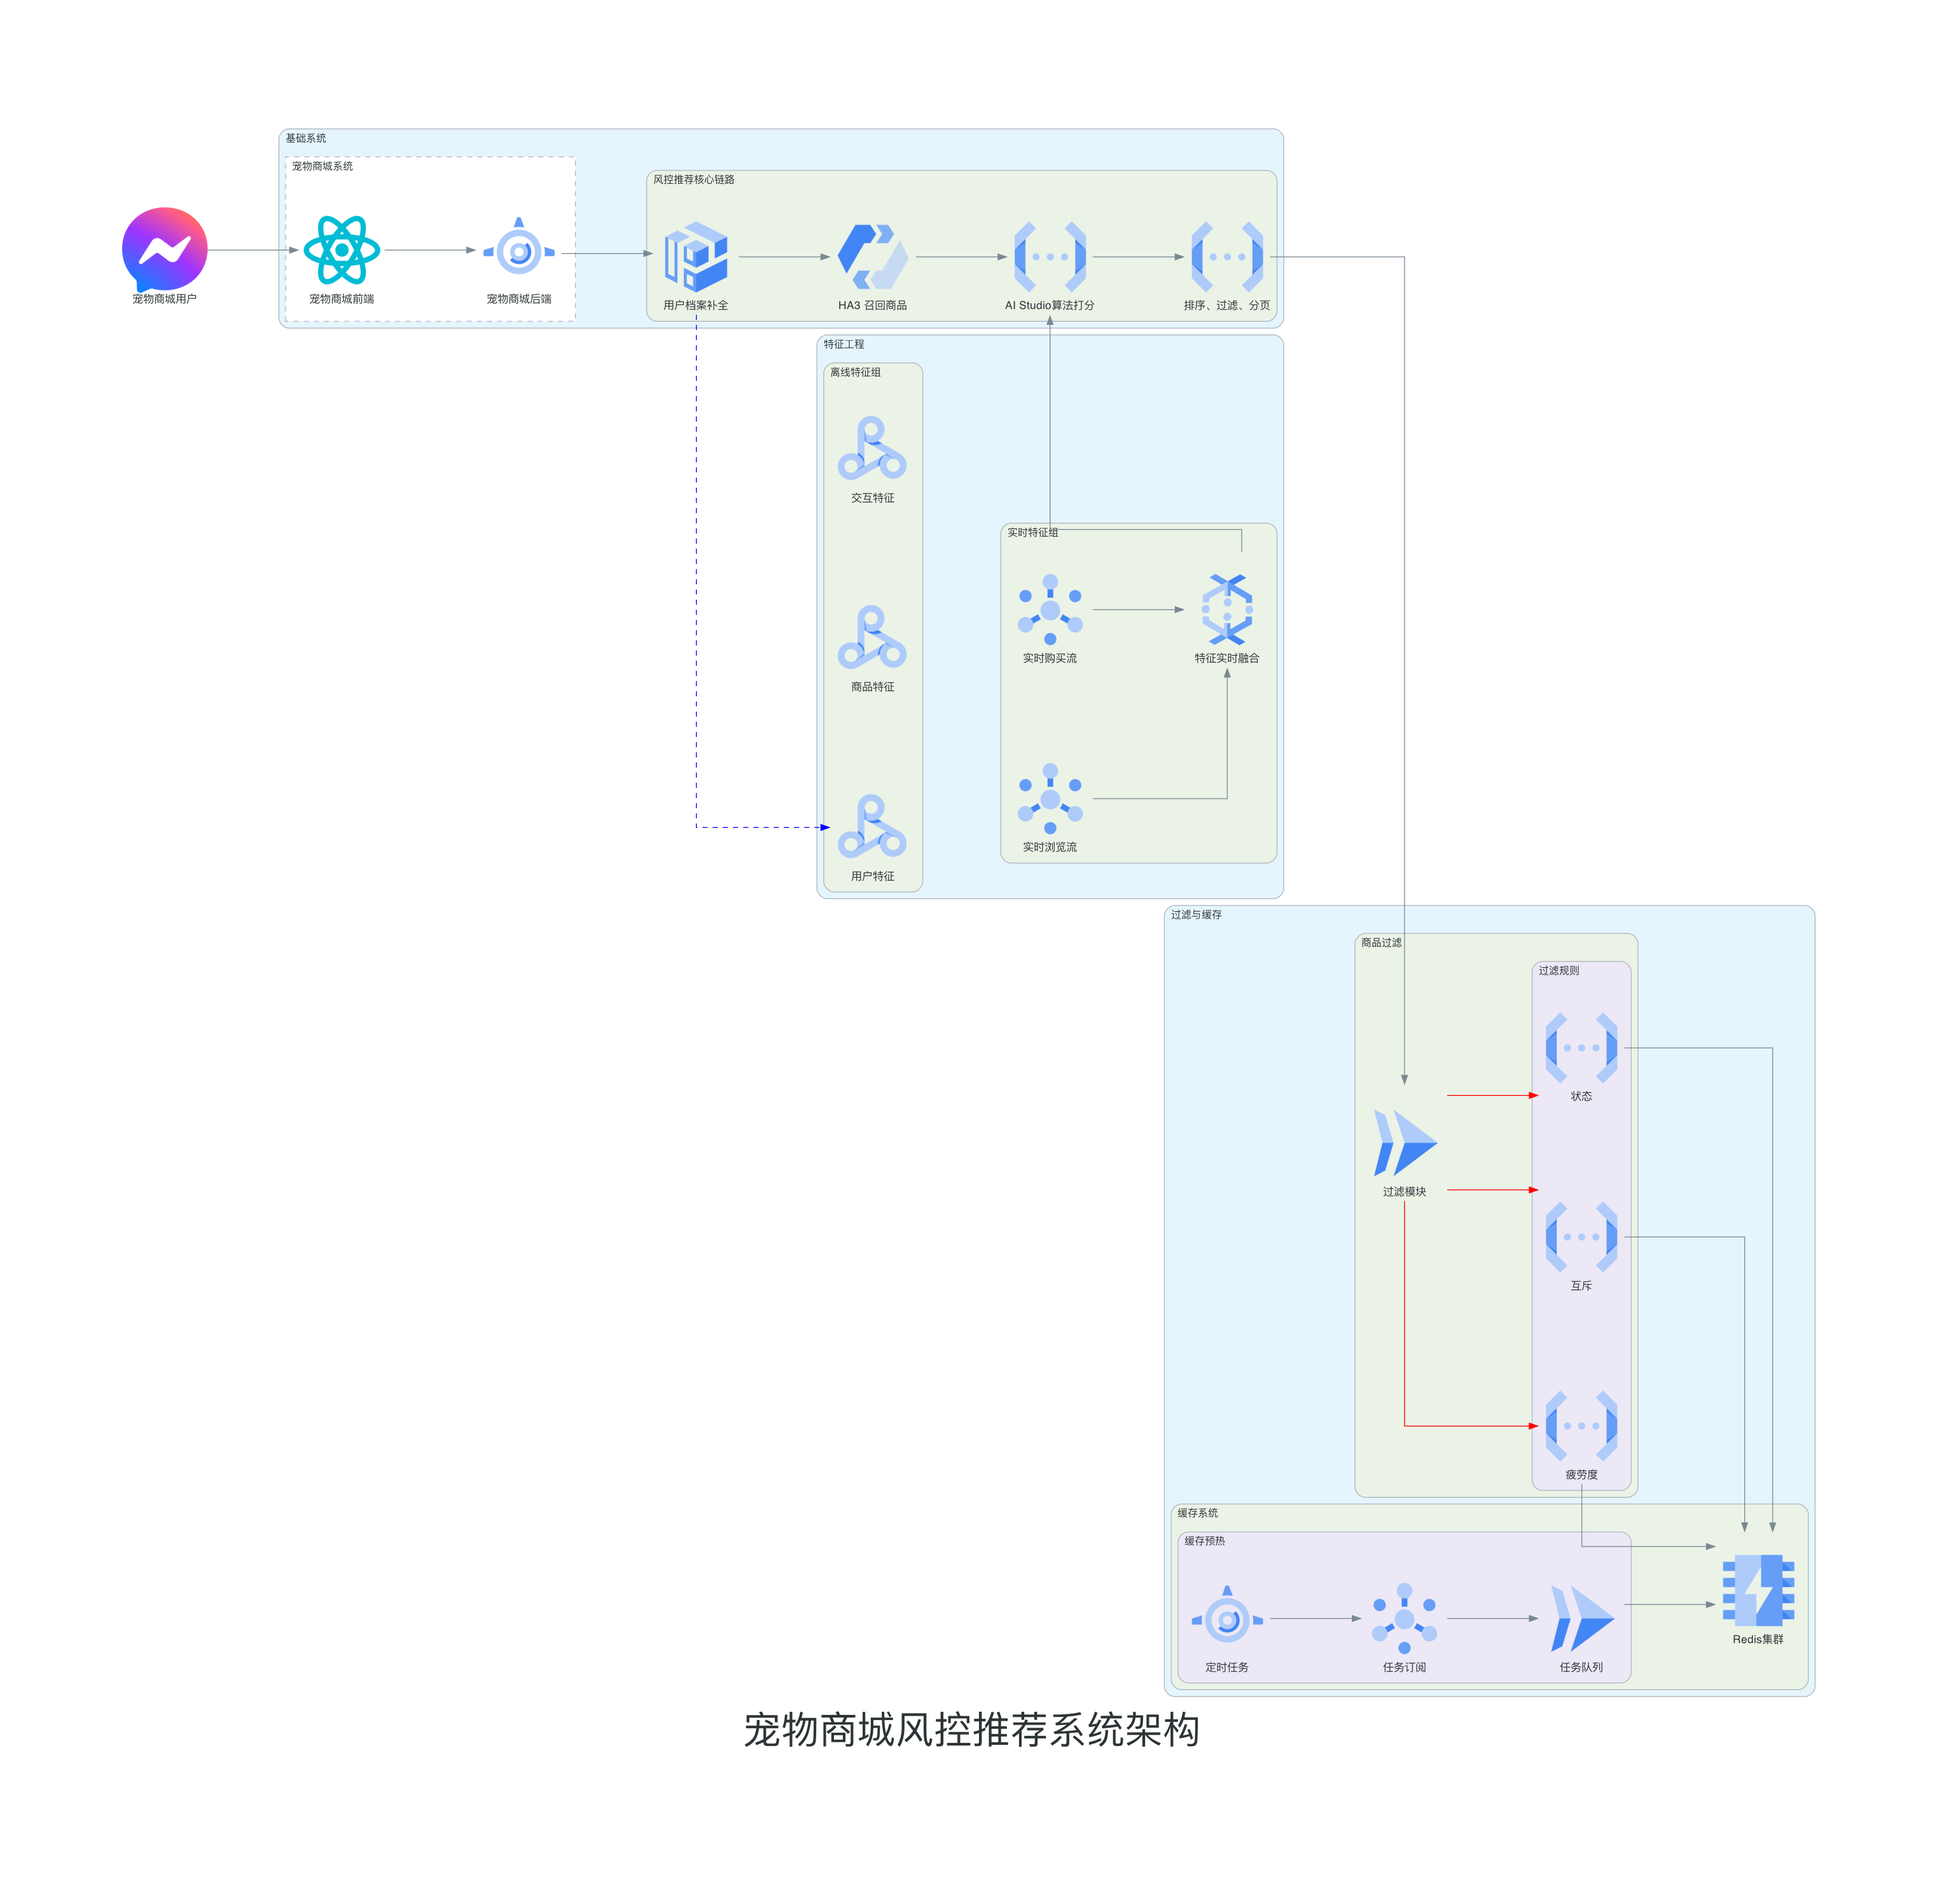
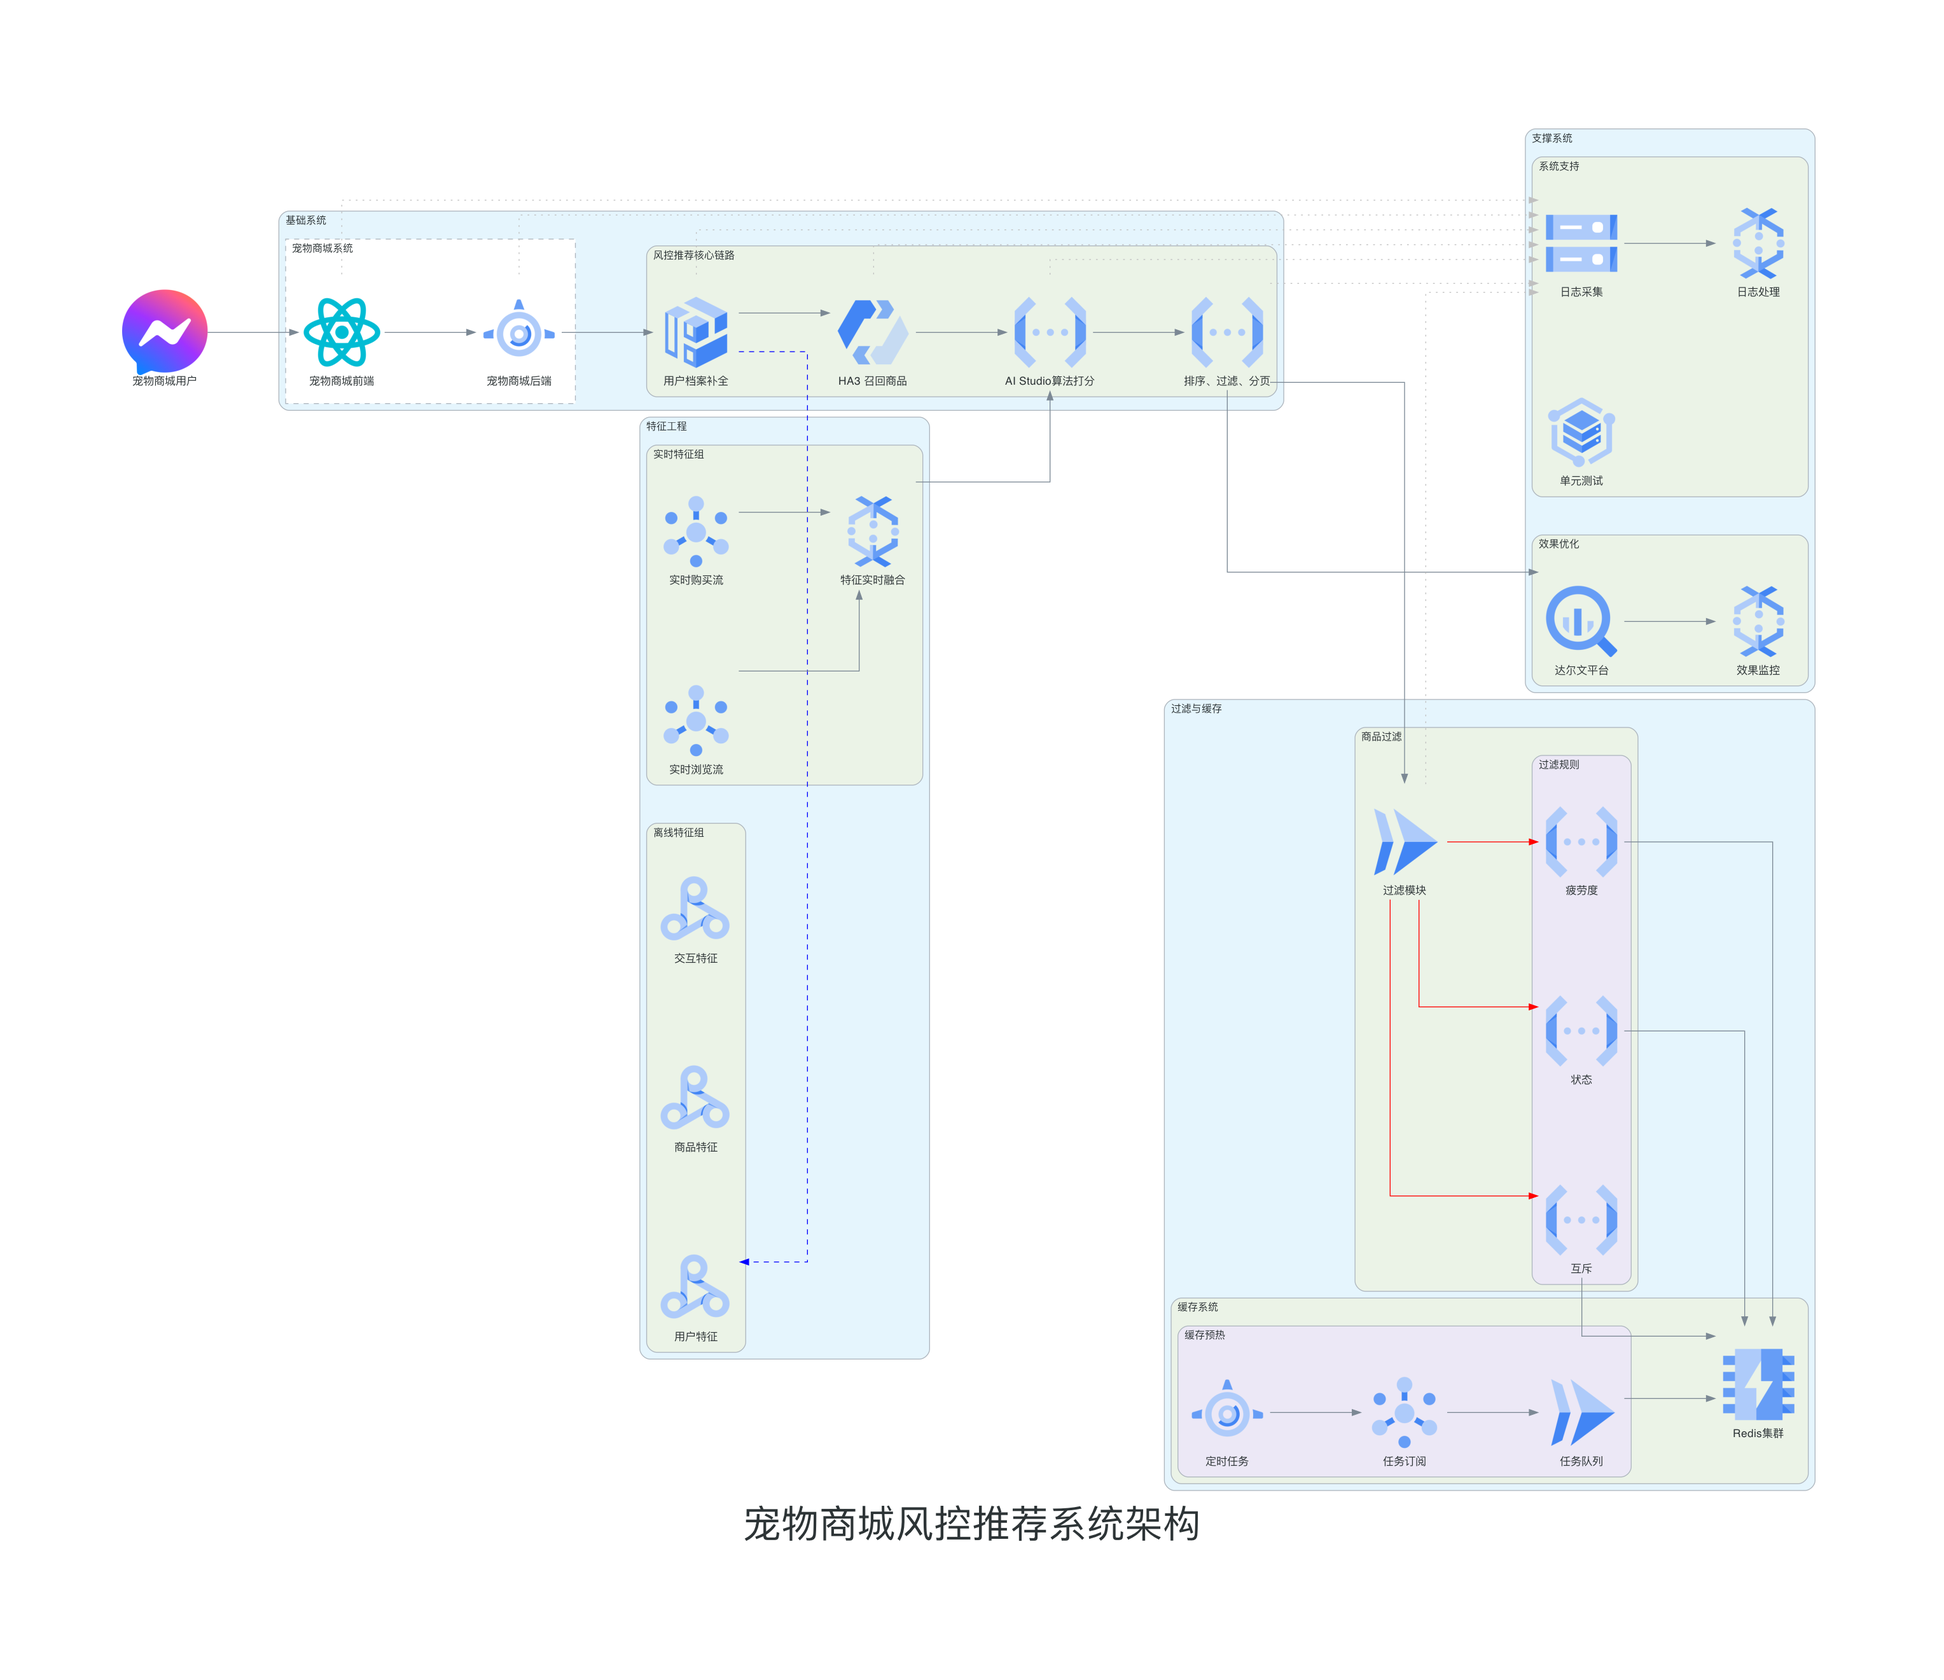
Add: pet recommendation

diff --git a/docs/Vnote/program/recommend/pet_mall_architecture.py b/docs/Vnote/program/recommend/pet_mall_architecture.py
@@ -15,7 +15,10 @@ graph_attr = {
     "splines": "ortho",
     "nodesep": "1.2",
     "ranksep": "1.5",
-    "concentrate": "true"
+    "concentrate": "true",
+    "compound": "true",     # 允许边连接到子图
+    "clusterrank": "local", # 允许子图独立排序
+    "constraint": "false"   # 减少边的约束
 }
 
 core_graph_attr = {
@@ -36,11 +39,14 @@ with Diagram("宠物商城风控推荐系统架构", direction="LR", graph_attr=
             backend = AppEngine("宠物商城后端")
 
         # 风控推荐核心链路，与商城系统并排
-        with Cluster("风控推荐核心链路",graph_attr=core_graph_attr):
+        with Cluster("风控推荐核心链路", graph_attr=core_graph_attr):
             profile = AIHub("用户档案补全")
             recall = AutoML("HA3 召回商品")
             scoring = Functions("AI Studio算法打分")
             ranking = Functions("排序、过滤、分页")
+
+            # 强制水平布局
+            profile >> recall >> scoring >> ranking
 
     # 支撑系统组
     with Cluster("支撑系统"):
@@ -56,7 +62,7 @@ with Diagram("宠物商城风控推荐系统架构", direction="LR", graph_attr=
             log_process = Dataflow("日志处理")
 
     # 特征构建系统 - 使用水平布局
-    with Cluster("特征工程", graph_attr={"rankdir": "LR"}) as feature_eng:
+    with Cluster("特征工程", graph_attr={"rankdir": "LR", "rank": "same", "constraint": "false"}) as feature_eng:
         # 离线特征组
         with Cluster("离线特征组") as offline:
             user_features = Dataproc("用户特征")
@@ -70,12 +76,12 @@ with Diagram("宠物商城风控推荐系统架构", direction="LR", graph_attr=
             feature_fusion = Dataflow("特征实时融合")
 
         # 使用不可见边缘连接节点，强制水平布局
-        user_features >> Edge(style="invis") >> view_stream
-        item_features >> Edge(style="invis") >> purchase_stream
-        ui_features >> Edge(style="invis") >> feature_fusion
+        user_features >> Edge(style="invis", constraint="false") >> view_stream
+        item_features >> Edge(style="invis", constraint="false") >> purchase_stream
+        ui_features >> Edge(style="invis", constraint="false") >> feature_fusion
 
     # 过滤和缓存系统
-    with Cluster("过滤与缓存"):
+    with Cluster("过滤与缓存", graph_attr={"rank": "same", "constraint": "false"}):
         # # 商品过滤
         with Cluster("商品过滤"):
             filter_engine = Run("过滤模块")
@@ -115,3 +121,6 @@ with Diagram("宠物商城风控推荐系统架构", direction="LR", graph_attr=
         component >> Edge(style="dotted", color="gray") >> log_collect
 
     log_collect >> log_process
+
+    # 添加一个不可见的边来连接特征工程和过滤缓存系统
+    feature_fusion >> Edge(style="invis", minlen="10", constraint="false") >> filter_engine
